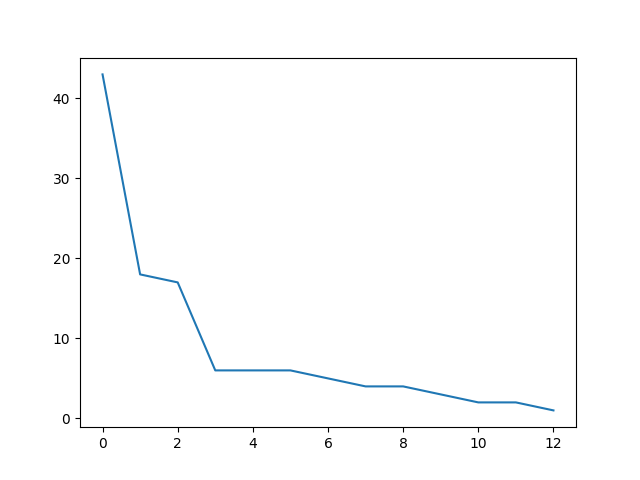
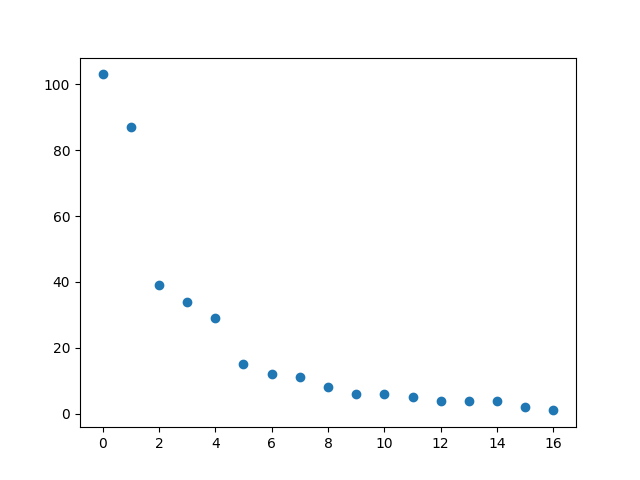
added more to plotter

diff --git a/plotter.py b/plotter.py
@@ -1,4 +1,4 @@
-from matplotlib.pyplot import plot, savefig
+from matplotlib.pyplot import plot, savefig, scatter
 import json
 import sys
 guild = sys.argv[1]
@@ -7,5 +7,6 @@ with open("leaderboard2.json") as file:
     jsonstring = json.loads(file.read())
 l = [jsonstring[guild][id] for id in jsonstring[guild]]
 l.sort(reverse=True)
-plot(l)
+#plot(l)
+scatter(range(len(l)), l)
 savefig("tmp.png")
